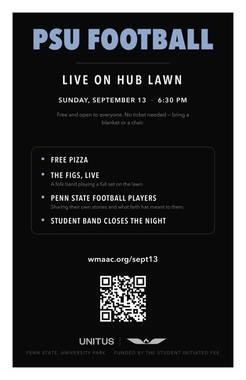
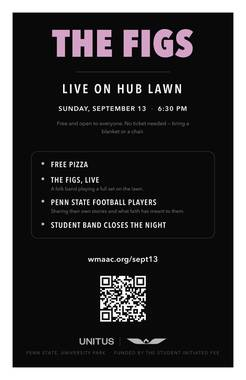
Make the office-printer set one decision, not six more files
Follow-up to 3706da2. That commit's six downloads were all labelled "PDF" --
three on the half-page row, three on the two-up row -- so the only way to find
out which hook you were about to download was to open all three. The pills now
name the hook, which is the only thing that varies inside a row: the format is
already the row title and the printer question is already answered by the
group heading above it.

The half-page thumbnail rendered the PSU Football cut while the picture links
to the first file in its row, which is the Figs. Both office thumbnails are
now the Figs cut, so tapping one opens the flyer it just showed you.

THUMB_SOURCES had two keys, 2up_figs_office and 2up_office, rendering the same
PDF. The page referenced one, so the other was generated, committed and
deployed with nothing linking to it -- it is answering 200 on wmaac.org right
now. The duplicate is gone and the stage script now prunes public/promo of
anything it no longer produces, because neither the build nor tsc can see a
file that is merely unreferenced.

Header now says to run the script under the promo folder's .pdfvenv and why:
pymupdf and Pillow are that build's dependencies, not this site's, so any
other interpreter fails with ModuleNotFoundError.

Verified: build and tsc clean, /promo 200, all 47 download links and 26
thumbnails 200, every printed byte size matches the served bytes, and no file
on disk is unreferenced in either direction.

Changed region(s): [[0.1138, 0.0579, 0.8821, 0.3474], [0.1707, 0.4053, 0.7398, 0.6079], [0.3984, 0.7237, 0.5976, 0.8684]]

diff --git a/src/app/promo/route.ts b/src/app/promo/route.ts
@@ -147,7 +147,8 @@ const PRINT = section(
       "Half page &middot; 5.5&times;8.5",
       `Same design at half the size. Use it where a board is already crowded, or where
        you are handing something to a person rather than pinning it up. Twice as many
-       for the same paper.`,
+       for the same paper. Running these off yourself rather than sending them out?
+       There is a version further down made for that.`,
       [
         {
           thumb: "half_figs",
@@ -205,27 +206,41 @@ const PRINT = section(
        cannot print that last quarter inch, so it will hand you the same flyer with a
        ragged white edge. <b>This version puts the black on a white sheet on purpose</b>,
        so the border is even and looks like a choice. Same three hooks, same half page,
-       plus the matching two-up sheets. Going to a real printer? Ignore this and use the
-       ones above.`,
+       plus the matching two-up sheets. PDF only &mdash; like the two-up above, this
+       version exists to come out of a printer. Going to a real printer? Ignore this and
+       use the ones above.`,
+      /* One row per shape rather than six more rows, and the pills name the HOOK
+         rather than repeating "PDF" three times. Everything else in this section
+         is one row per file, but here the hook was already chosen at the top of
+         the section and the only live question is which printer the paper goes
+         through. Three identical "PDF" pills would have made the reader open all
+         three to find out which is which. */
       [
         {
           thumb: "half_office",
           title: "Half page &middot; white margin",
-          note: "One sheet, one flyer.",
+          note: "One flyer per 5.5&times;8.5 sheet, for a printer that takes that stock.",
           downloads: [
-            { file: "TheFigs_HUBLawn_HalfPage_5.5x8.5_OfficePrinter.pdf", kind: "PDF" },
-            { file: "PSUFootball_HUBLawn_HalfPage_5.5x8.5_OfficePrinter.pdf", kind: "PDF" },
-            { file: "FreePizza_HUBLawn_HalfPage_5.5x8.5_OfficePrinter.pdf", kind: "PDF" },
+            { file: "TheFigs_HUBLawn_HalfPage_5.5x8.5_OfficePrinter.pdf", kind: "The Figs" },
+            {
+              file: "PSUFootball_HUBLawn_HalfPage_5.5x8.5_OfficePrinter.pdf",
+              kind: "PSU Football",
+            },
+            { file: "FreePizza_HUBLawn_HalfPage_5.5x8.5_OfficePrinter.pdf", kind: "Free Pizza" },
           ],
         },
         {
-          thumb: "2up_figs_office",
+          thumb: "2up_office",
           title: "Two-up &middot; white margin",
-          note: "Print, one cut at 5.5&nbsp;in.",
+          note: `Two per ordinary letter sheet, then one cut at 5.5&nbsp;in. <b>This is the
+                 one for a normal office copier</b> &mdash; letter is the paper it already has.`,
           downloads: [
-            { file: "TheFigs_HUBLawn_HalfPage_2up_Letter_OfficePrinter.pdf", kind: "PDF" },
-            { file: "PSUFootball_HUBLawn_HalfPage_2up_Letter_OfficePrinter.pdf", kind: "PDF" },
-            { file: "FreePizza_HUBLawn_HalfPage_2up_Letter_OfficePrinter.pdf", kind: "PDF" },
+            { file: "TheFigs_HUBLawn_HalfPage_2up_Letter_OfficePrinter.pdf", kind: "The Figs" },
+            {
+              file: "PSUFootball_HUBLawn_HalfPage_2up_Letter_OfficePrinter.pdf",
+              kind: "PSU Football",
+            },
+            { file: "FreePizza_HUBLawn_HalfPage_2up_Letter_OfficePrinter.pdf", kind: "Free Pizza" },
           ],
         },
       ],
@@ -548,6 +563,7 @@ const HTML = `<!DOCTYPE html>
   .meta{min-width:0}
   .t{font-family:'Oswald',sans-serif;font-size:.95rem;text-transform:uppercase;letter-spacing:.06em;font-weight:500;line-height:1.25}
   .d{color:var(--dim);font-size:.82rem;font-weight:300;margin-top:.3rem;line-height:1.55}
+  .d b{color:var(--white);font-weight:500}
 
   .dls{display:flex;flex-wrap:wrap;gap:.4rem;margin-top:.6rem}
   .dl{

diff --git a/src/app/promo/manifest.ts b/src/app/promo/manifest.ts
@@ -56,10 +56,6 @@ export const THUMBS: Record<string, [number, number]> = {
     380,
     294
   ],
-  "2up_figs_office": [
-    380,
-    294
-  ],
   "2up_office": [
     380,
     294

diff --git a/scripts/stage-promo.py b/scripts/stage-promo.py
@@ -117,10 +117,11 @@ THUMB_SOURCES = {
     # the two shapes. One would not do -- the half page and the two-up sheet are
     # different shapes, and showing the half page on the two-up row would sell
     # someone the wrong thing. Which of the three hooks the picture happens to
-    # show does not matter; the white border is the whole point of it.
-    "half_office": "PSUFootball_HUBLawn_HalfPage_5.5x8.5_OfficePrinter.png",
+    # show does not matter, except that a thumbnail is a link to the first file
+    # in its row, so both of these are the Figs cut to match what tapping them
+    # actually opens.
+    "half_office": "TheFigs_HUBLawn_HalfPage_5.5x8.5_OfficePrinter.png",
     "2up_office": "TheFigs_HUBLawn_HalfPage_2up_Letter_OfficePrinter.pdf",
-    "2up_figs_office": "TheFigs_HUBLawn_HalfPage_2up_Letter_OfficePrinter.pdf",
     "emailad": "TheFigs_Sept13_Email_Ad.png",
     "s_email": "social/email_1200x630.png",
     "s_whatsapp": "social/whatsapp_1080.png",
@@ -180,6 +181,21 @@ def main() -> None:
         # right box before the image lands. Without them a phone reflows the
         # whole list as twenty-four thumbnails arrive one at a time.
         thumbs[key] = [img.width, img.height]
+
+    # Delete anything in public/promo that this script no longer produces.
+    # Without this the directory only ever grows: rename or drop a key and the
+    # old file stays committed and deployed forever, invisible because nothing
+    # links to it. That is not hypothetical -- a duplicate 2up_figs_office key
+    # rendering the same PDF as 2up_office left an orphan behind exactly here,
+    # and nothing in the build or the typechecker can see a file like that.
+    for f in OUT.glob("*.*"):
+        if f.name not in sizes:
+            print(f"pruned  {f.relative_to(OUT.parent)}")
+            f.unlink()
+    for f in THUMBS.glob("*.jpg"):
+        if f.stem not in thumbs:
+            print(f"pruned  {f.relative_to(OUT.parent)}")
+            f.unlink()
 
     MANIFEST.parent.mkdir(parents=True, exist_ok=True)
     MANIFEST.write_text(
